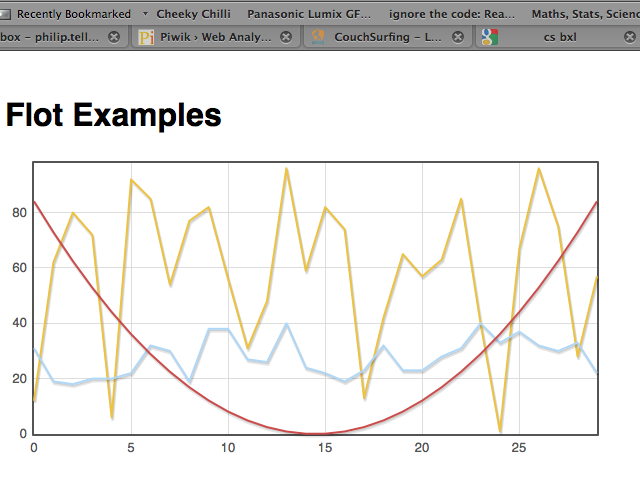
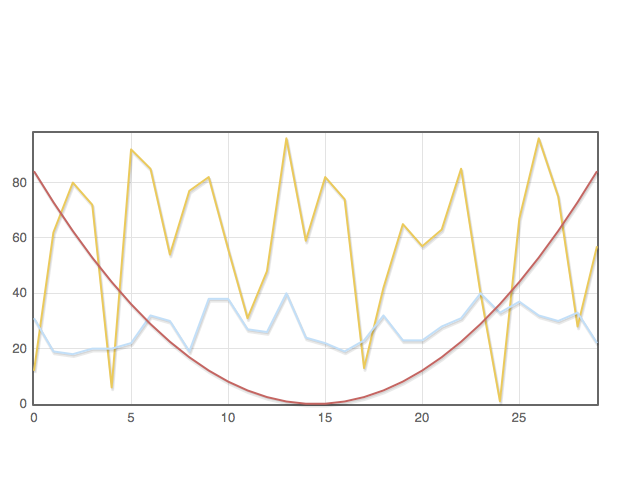
finished slides on how to use it and differences from flot

diff --git a/yui-examples/multiseries.html b/yui-examples/multiseries.html
@@ -18,15 +18,21 @@
     var d = [];
 
     for(var i=0; i<30; i++) {
-	d.push( {
+	var data = {
 			x: i,
 			s1: Math.round(Math.random()*100),
 			s2: Math.round(Math.random()*25)+15,
 			s3: 0.4*(i-14.5)*(i-14.5),
-		});
+			s4: null
+		};
+	if(i%4) {
+		data.s4 = data.s3;
+		data.s3 = null;
+	}
+	d.push(data);
     }
 
-    YAHOO.widget.Flot("placeholder", [d]);
+    YAHOO.widget.Flot("placeholder", [d], {points: { show: true}, lines: {show: true}});
 
 })();
 </script>

diff --git a/talks/fosdem2010.tex b/talks/fosdem2010.tex
@@ -231,22 +231,87 @@
     \end{block}
   \end{columns}
 \end{frame}
+
+\begin{frame}[fragile]{Multiple series}
+  \begin{block}{}
+    \begin{verbatim}
+      { x: 1, temp: 16, hg: 3, vol: 40 },
+      { x: 2, temp: 18, hg: 4, vol: 30 },
+      { x: 3, temp: 12, hg: 6, vol: 20 },
+      ...
+    \end{verbatim}
+  \end{block}
+\end{frame}
 \setbeamertemplate{background}{}
 
 \subsection{How to use it?}
-% 1. Include code into your HTML
-% 2. Get your data from somewhere
-% 3. Instantiate the chart
+\begin{frame}[fragile]{1. Include code into your HTML}
+\begin{block}{}
+\tiny{\begin{verbatim}
+<div id="placeholder"></div>
+
+
+<!--[if IE]><script type="text/javascript" src="excanvas.min.js"></script><![endif]-->
+<script type="text/javascript"
+        src="http://yui.yahooapis.com/combo
+                 ?2.7.0/build/yahoo-dom-event/yahoo-dom-event.js
+                 &2.7.0/build/datasource/datasource-min.js">
+</script>
+<script type="text/javascript" src="yui.flot.js"></script>
+\end{verbatim}}
+\end{block}
+\end{frame}
+
+\begin{frame}[fragile]{2. Get your data from somewhere}
+\begin{block}{}
+\tiny{\begin{verbatim}
+var data = [ [10, 20], [15, 5], [8, 32], [13, 97] ];
+\end{verbatim}}
+\end{block}
+\end{frame}
+
+\begin{frame}[fragile]{3. Set your chart's parameters}
+\begin{block}{}
+\tiny{\begin{verbatim}
+var data = [ [10, 20], [15, 5], [8, 32], [13, 97] ];
+
+var config = { lines: {show: true}, points: {show: true} };
+\end{verbatim}}
+\end{block}
+\end{frame}
+
+\begin{frame}[fragile]{4. Instantiate the chart}
+\begin{block}{}
+\tiny{\begin{verbatim}
+var data = [ [10, 20], [15, 5], [8, 32], [13, 97] ];
+
+var config = { lines: {show: true}, points: {show: true} };
+
+YAHOO.widget.Flot("placeholder", [data], config);
+\end{verbatim}}
+\end{block}
+\end{frame}
 
 \subsection{Differences from Flot}
-% Based of flot 0.5, flot is now at 0.6
-% locale support for time series
-% timestamps are in seconds and not in milliseconds
-% More than two axes (scales) in each direction
-% Axis labels - different from tick labels
-% Log scale for all axes (also in Flot 0.6)
-% Full strftime based date formatter
-% Point dropping
+
+\begin{frame}{Flot => YUI-Flot}
+\begin{itemize}
+\item Based of flot 0.5, flot is now at 0.6
+\item Added log scales for all axes (also in Flot 0.6)
+\item Allow more than two axes in each direction
+\item Add axis labels
+\item Drop points to make plot more readable
+\end{itemize}
+\end{frame}
+
+\begin{frame}{Timeseries changes}
+\begin{itemize}
+\item Accepts Date objects as values for a timeseries
+\item timestamps are in seconds and not in milliseconds
+\item Full strftime based date formatter
+\item locale support for time series
+\end{itemize}
+\end{frame}
 
 \section{Enlightenment}
 \subsection{Future}
